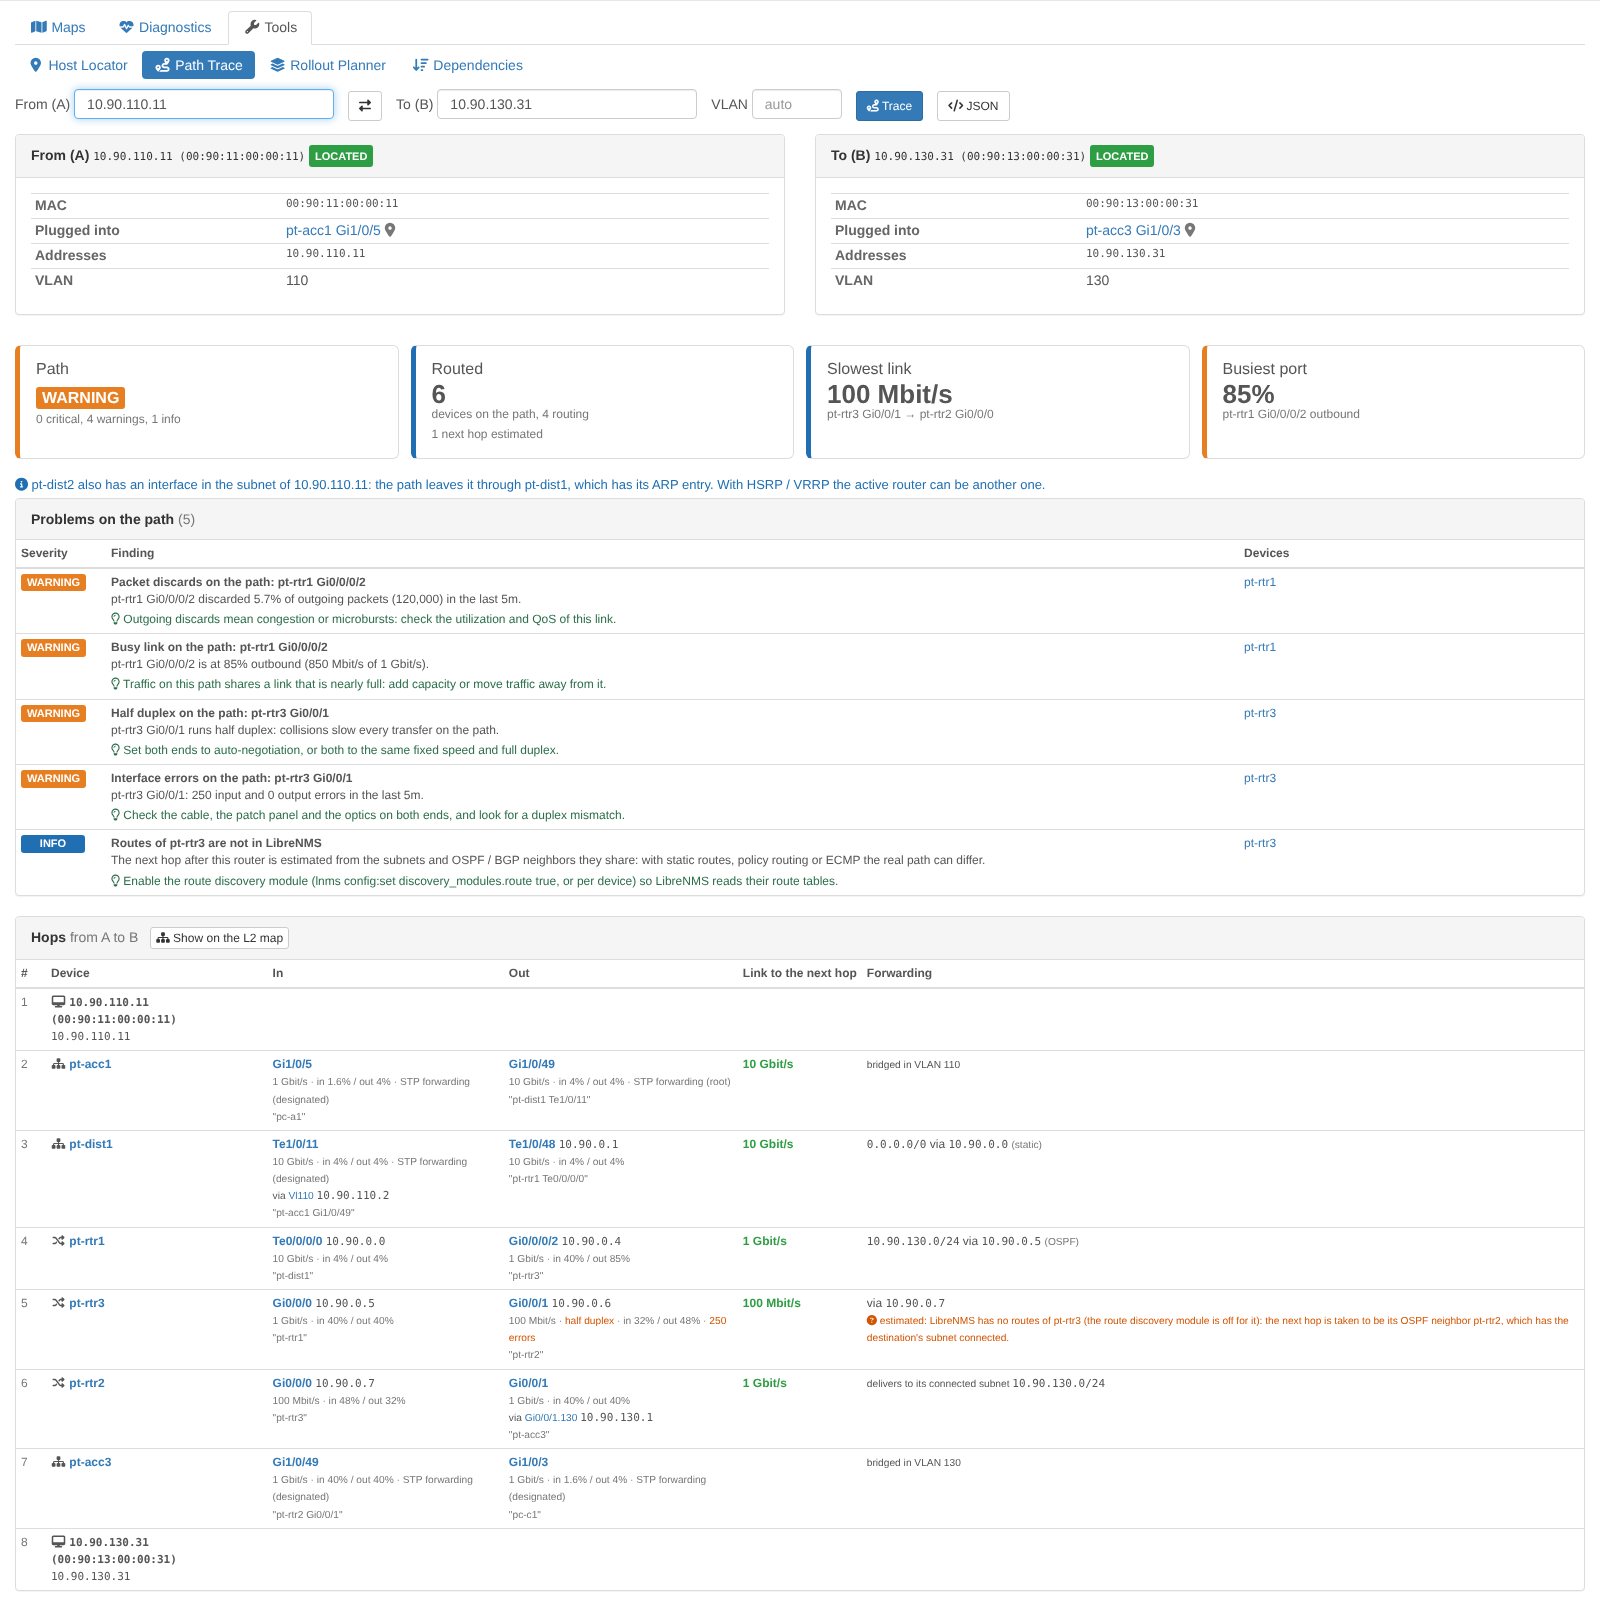
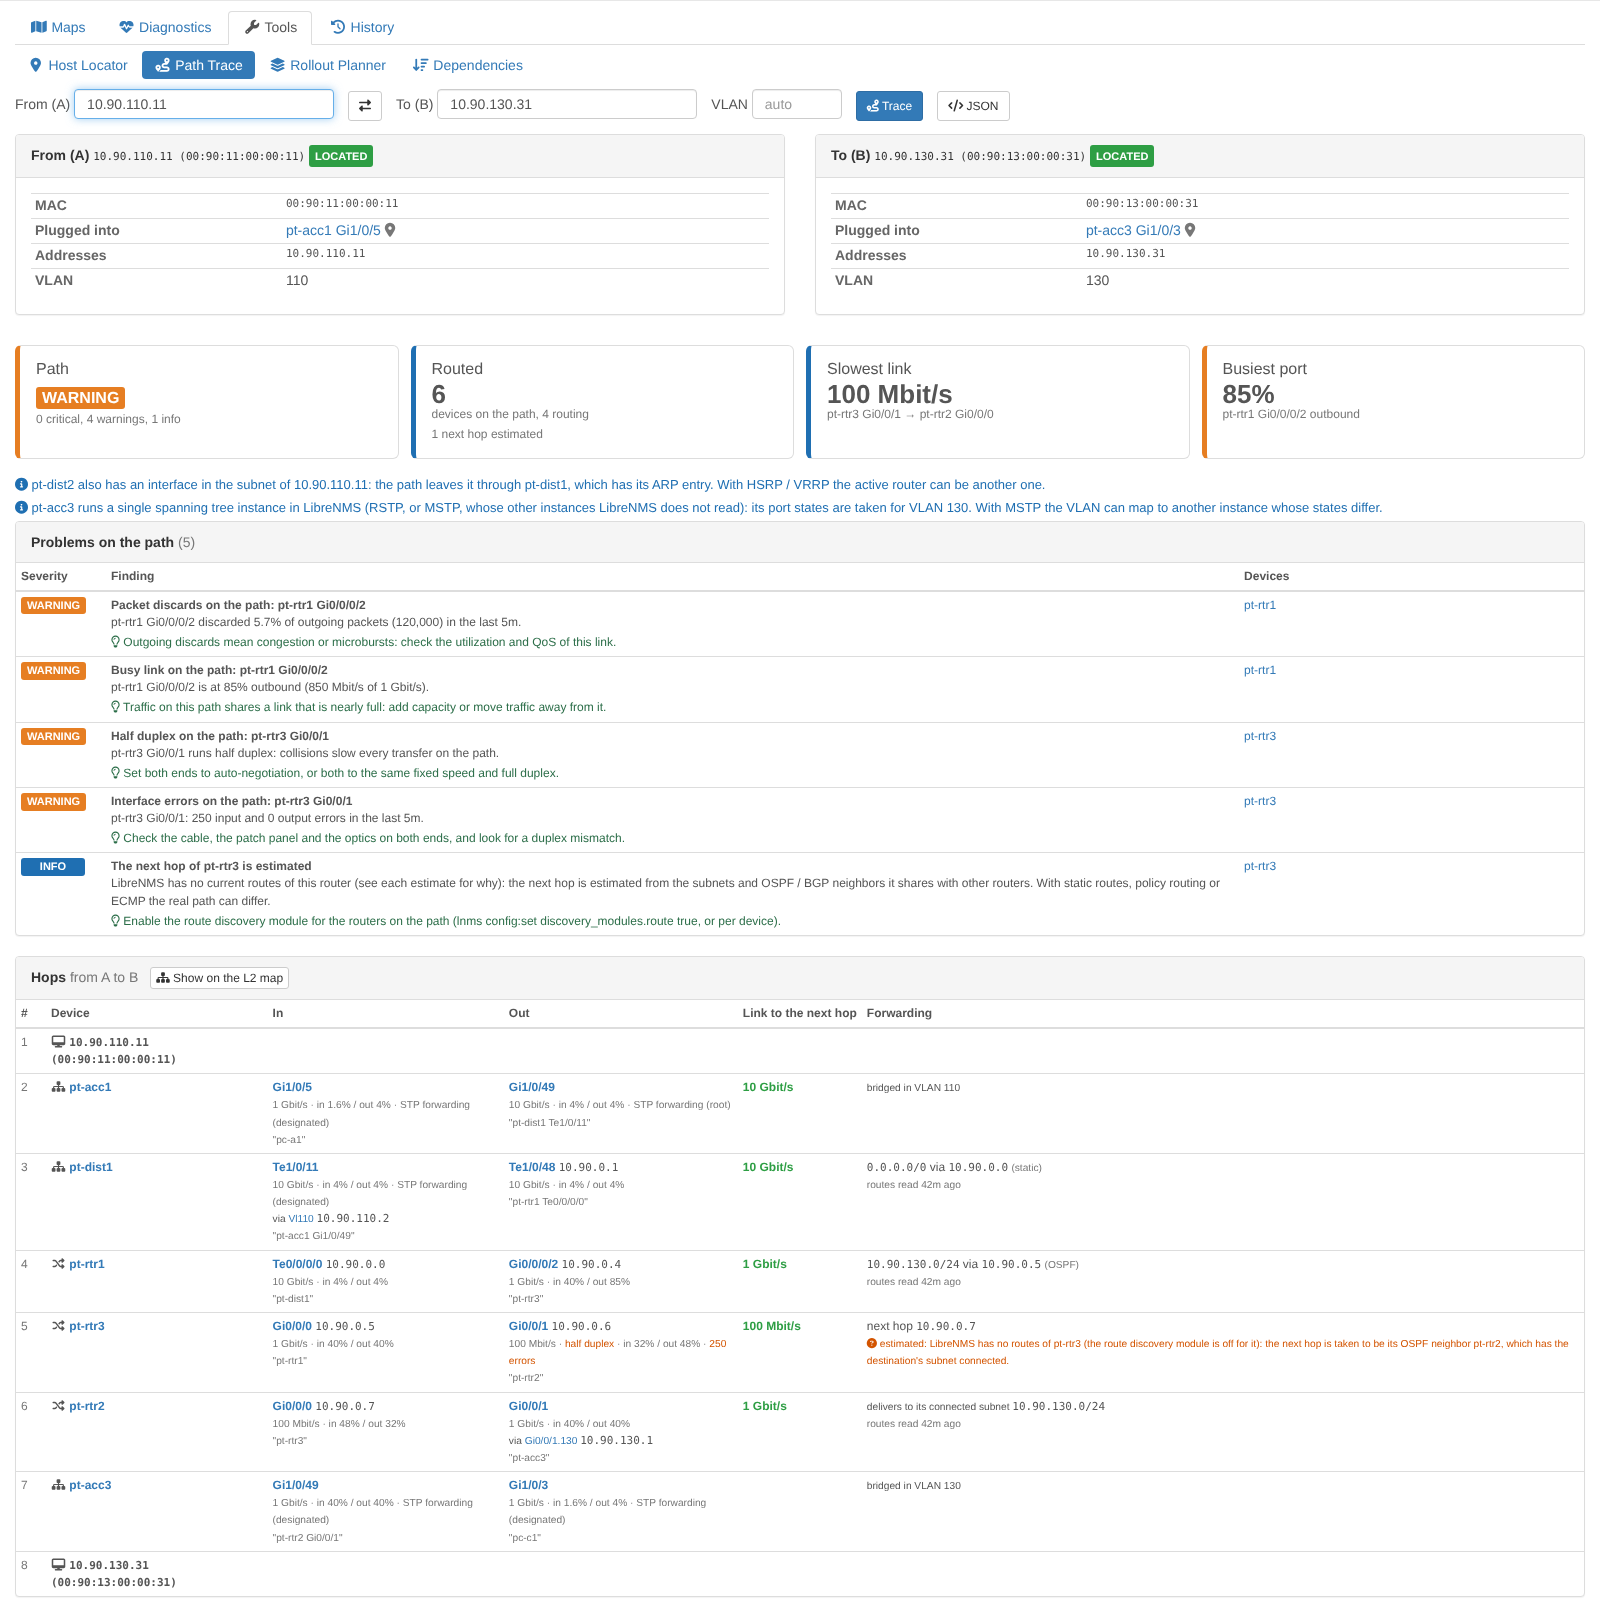
Path trace: route summary cached per database, interfaces in the trace's address family
The cached per-router route summary is keyed by the database, so installs
that share a cache store keep their own. A router's interface on a port is
taken in the destination's address family first (an IPv6 trace shows the
IPv6 address). Singular wording for one estimated router or one
single-instance bridge, and a new screenshot.

Claude-Session: https://claude.ai/code/session_0198AmcjhsoHmwiaRMAktLtB

diff --git a/src/Path/L3Tracer.php b/src/Path/L3Tracer.php
@@ -77,6 +77,9 @@ class L3Tracer
     /** @var array<int, array<int, array>>|null device_id => [neighbor device_id => how] */
     private ?array $adjacent = null;
 
+    /** Address family of the trace's destination: the interfaces of a port are taken in it first. */
+    private int $family = 4;
+
     /**
      * @param  array<int, array>  $interfaces  device_id, port_id, address, prefixlen, vrf ('' for the global table), up (default
      *                                         true) of the routing devices the user may see; link-local IPv6 addresses included
@@ -126,6 +129,7 @@ class L3Tracer
     public function trace(int $start, ?int $ingressPort, string $vrf, string $destination): array
     {
         $destination = Cidr::canonical($destination) ?? $destination;
+        $this->family = Cidr::family($destination);
         $hops = [];
         $visited = [];
         $device = $start;
@@ -332,24 +336,31 @@ class L3Tracer
     }
 
     /**
-     * The interface of a device on one port (a global address before a link-local one).
+     * The interface of a device on one port: an address of the trace's family (a global one before a link-local one),
+     * else any.
      */
     public function interfaceOn(int $deviceId, int $portId): ?array
     {
+        $found = [];
         foreach ($this->byDevice[$deviceId] ?? [] as $interface) {
             if ($interface['port_id'] === $portId) {
-                return $interface;
+                $found[] = $interface;
             }
         }
         foreach ($this->linkLocal as $interfaces) {
             foreach ($interfaces as $interface) {
                 if ($interface['device_id'] === $deviceId && $interface['port_id'] === $portId) {
-                    return $interface;
+                    $found[] = $interface;
                 }
             }
         }
+        foreach ($found as $interface) {
+            if (Cidr::family($interface['address']) === $this->family) {
+                return $interface;
+            }
+        }
 
-        return null;
+        return $found[0] ?? null;
     }
 
     /**

diff --git a/src/Path/PathReport.php b/src/Path/PathReport.php
@@ -203,9 +203,10 @@ class PathReport
         if ($estimated) {
             $names = implode(', ', array_map(fn ($hop) => $hop['name'], $estimated));
             $states = array_values(array_unique(array_map(fn ($hop) => (string) ($hop['estimated_why'] ?? L3Tracer::ROUTES_NONE), $estimated)));
-            $log->add(Finding::INFO, 'estimated_hops', 'next hops of ' . $names . ' are estimated',
-                'LibreNMS has no current routes of ' . (count($estimated) === 1 ? 'this router' : 'these routers') . ' (see each estimate for why): the next hop is estimated from'
-                . ' the subnets and OSPF / BGP neighbors they share. With static routes, policy routing or ECMP the real path can differ.',
+            $one = count($estimated) === 1;
+            $log->add(Finding::INFO, 'estimated_hops', ($one ? 'the next hop of ' : 'the next hops of ') . $names . ($one ? ' is' : ' are') . ' estimated',
+                'LibreNMS has no current routes of ' . ($one ? 'this router' : 'these routers') . ' (see each estimate for why): the next hop is estimated from'
+                . ' the subnets and OSPF / BGP neighbors ' . ($one ? 'it shares' : 'they share') . ' with other routers. With static routes, policy routing or ECMP the real path can differ.',
                 implode(' ', array_map(fn ($state) => PathAssembler::routesAdvice($state), $states)), array_map(fn ($hop) => $hop['device_id'], $estimated));
         }
     }

diff --git a/src/Path/PathAssembler.php b/src/Path/PathAssembler.php
@@ -272,9 +272,10 @@ class PathAssembler
         }
         $common = $this->network->commonInstance(array_values(array_filter(array_column($trace['hops'], 'device_id'))), $vlan);
         if ($common) {
+            $one = count($common) === 1;
             $this->log->note('info', implode(', ', array_map(fn ($id) => $this->network->name($id), array_slice($common, 0, 4))) . (count($common) > 4 ? ' and ' . (count($common) - 4) . ' more' : '')
-                . ' run a single spanning tree instance in LibreNMS (RSTP, or MSTP, whose other instances LibreNMS does not read): its port states are taken for VLAN ' . $vlan
-                . '. With MSTP the VLAN can map to another instance whose states differ.');
+                . ($one ? ' runs' : ' run') . ' a single spanning tree instance in LibreNMS (RSTP, or MSTP, whose other instances LibreNMS does not read): '
+                . ($one ? 'its' : 'their') . ' port states are taken for VLAN ' . $vlan . '. With MSTP the VLAN can map to another instance whose states differ.');
         }
 
         return ['rows' => array_map(fn ($hop) => array_merge(self::emptyRow(), $hop, ['in_vlan' => $vlan, 'out_vlan' => $vlan]), $trace['hops']), 'blockers' => []];

diff --git a/src/Data/PathRepository.php b/src/Data/PathRepository.php
@@ -326,7 +326,8 @@ class PathRepository extends ScopedRepository
 
         $summary = null;
         try {
-            $summary = Cache::remember(self::ROUTE_DATA_KEY, self::ROUTE_DATA_SECONDS, fn () => self::routeSummary());
+            // per database: installs that share a cache store keep their own
+            $summary = Cache::remember(self::ROUTE_DATA_KEY . '.' . DB::connection()->getDatabaseName(), self::ROUTE_DATA_SECONDS, fn () => self::routeSummary());
         } catch (\Throwable $e) {
             Log::debug('topology plugin: route table summary not cached: ' . $e->getMessage());
         }

diff --git a/tests/Unit/PathServiceTest.php b/tests/Unit/PathServiceTest.php
@@ -314,7 +314,7 @@ class PathServiceTest extends TestCase
 
         $result = self::service($net)->trace(['a' => '10.90.110.11', 'b' => '10.90.110.12']);
         $this->assertSame(['acc1', 'dist1', 'acc2'], array_slice(self::names($result), 1, 3));
-        $this->assertStringContainsString('acc1 run a single spanning tree instance in LibreNMS', implode(' ', array_column($result['notes'], 'text')));
+        $this->assertStringContainsString('acc1 runs a single spanning tree instance in LibreNMS', implode(' ', array_column($result['notes'], 'text')));
     }
 }
 
